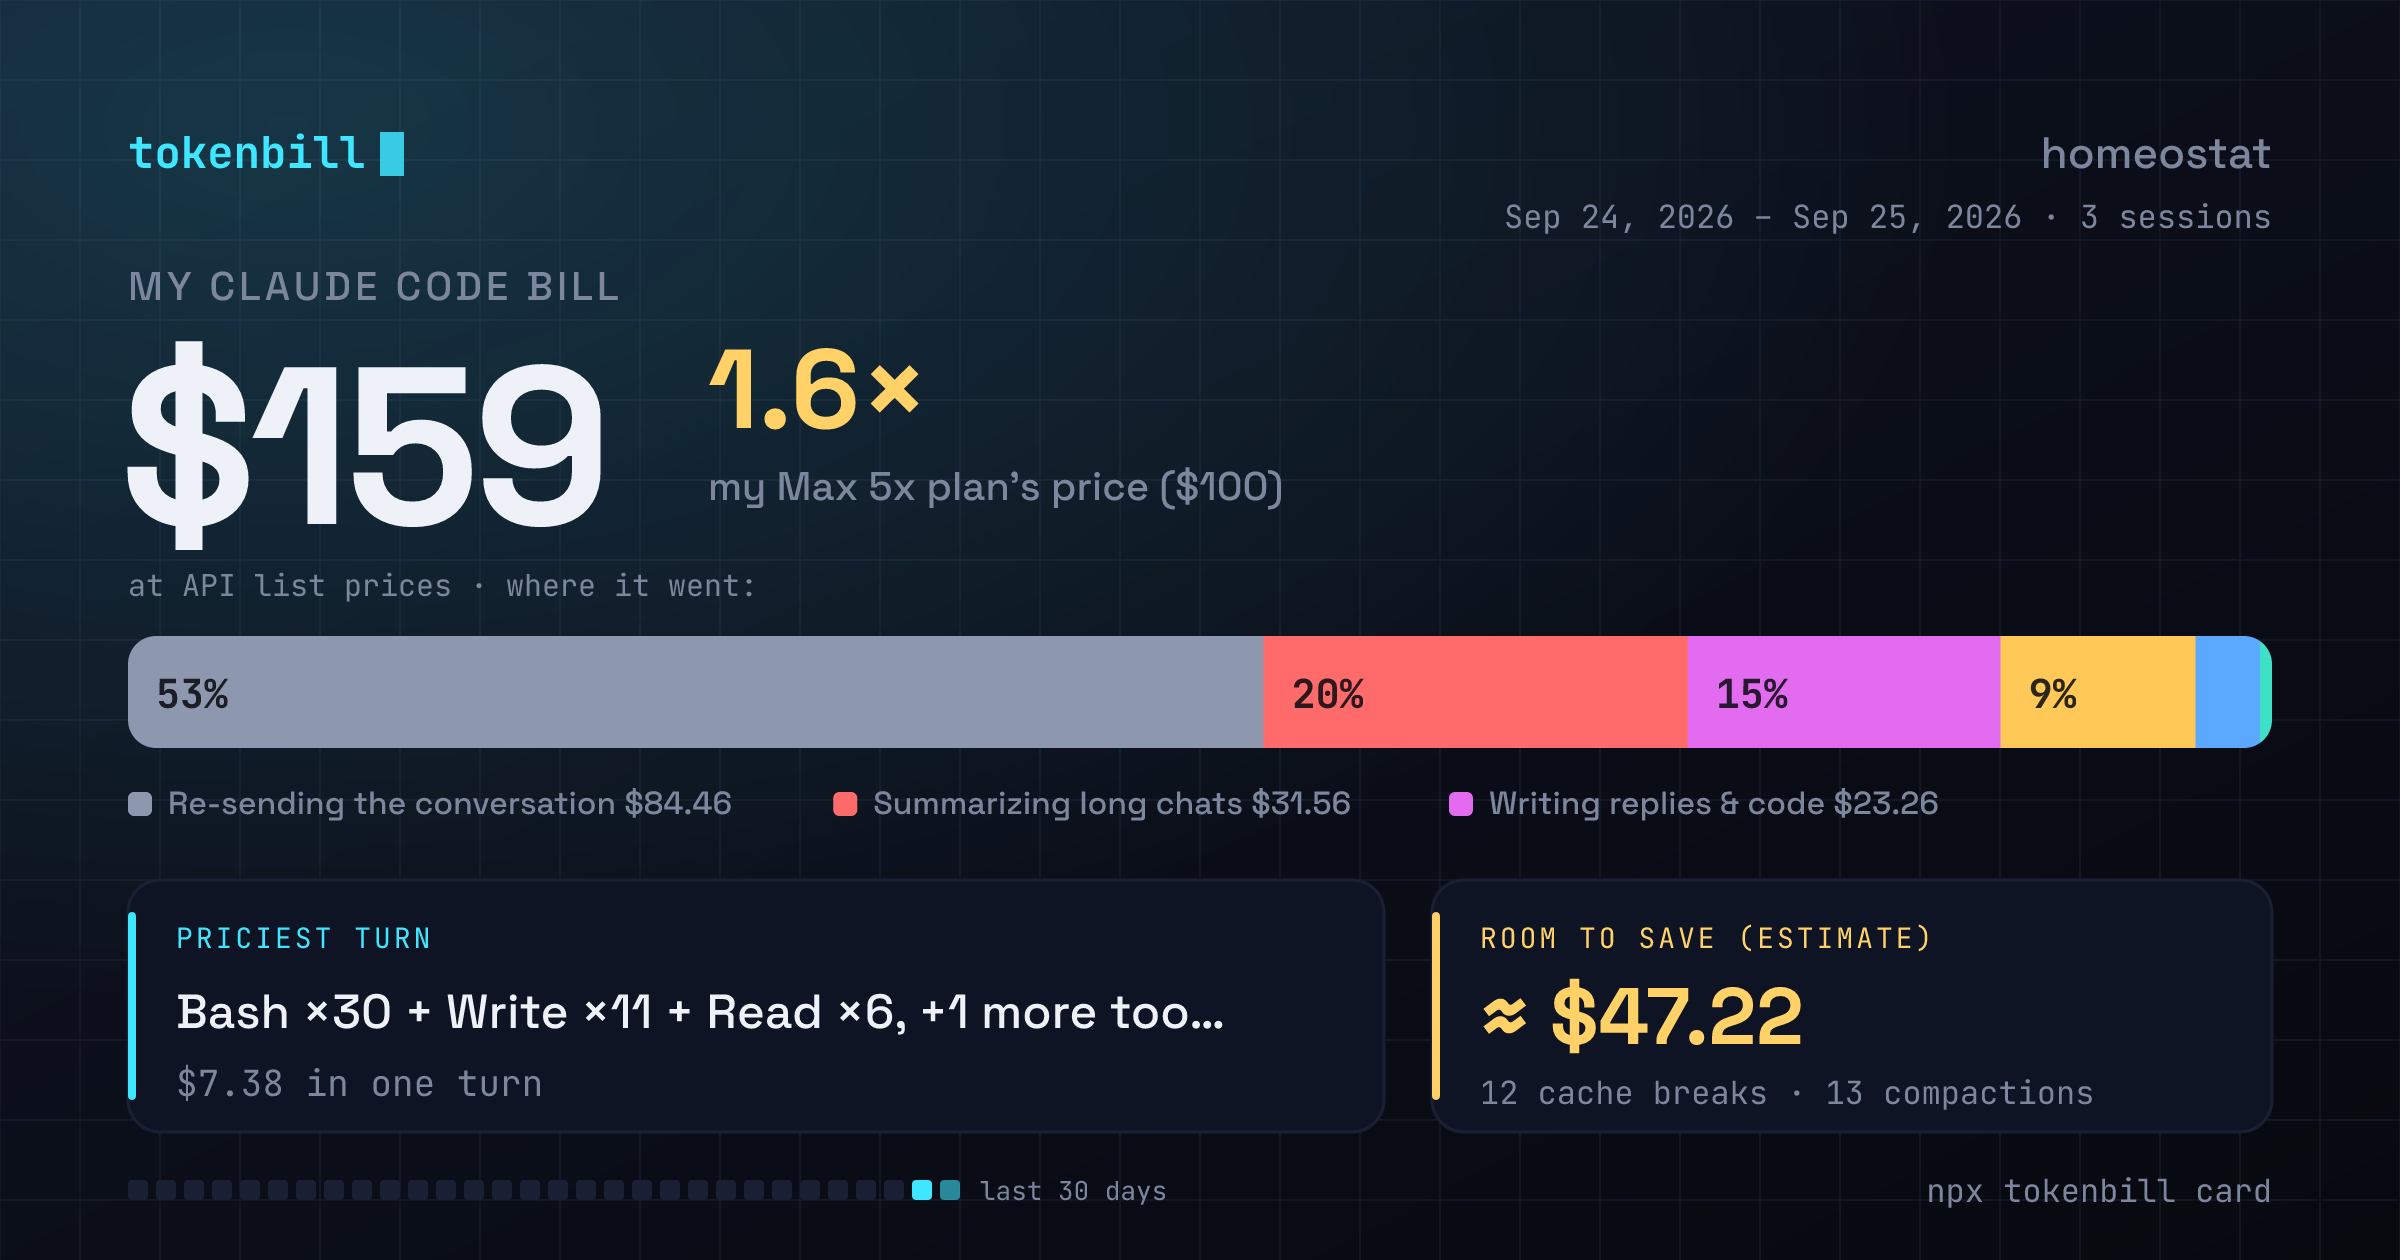
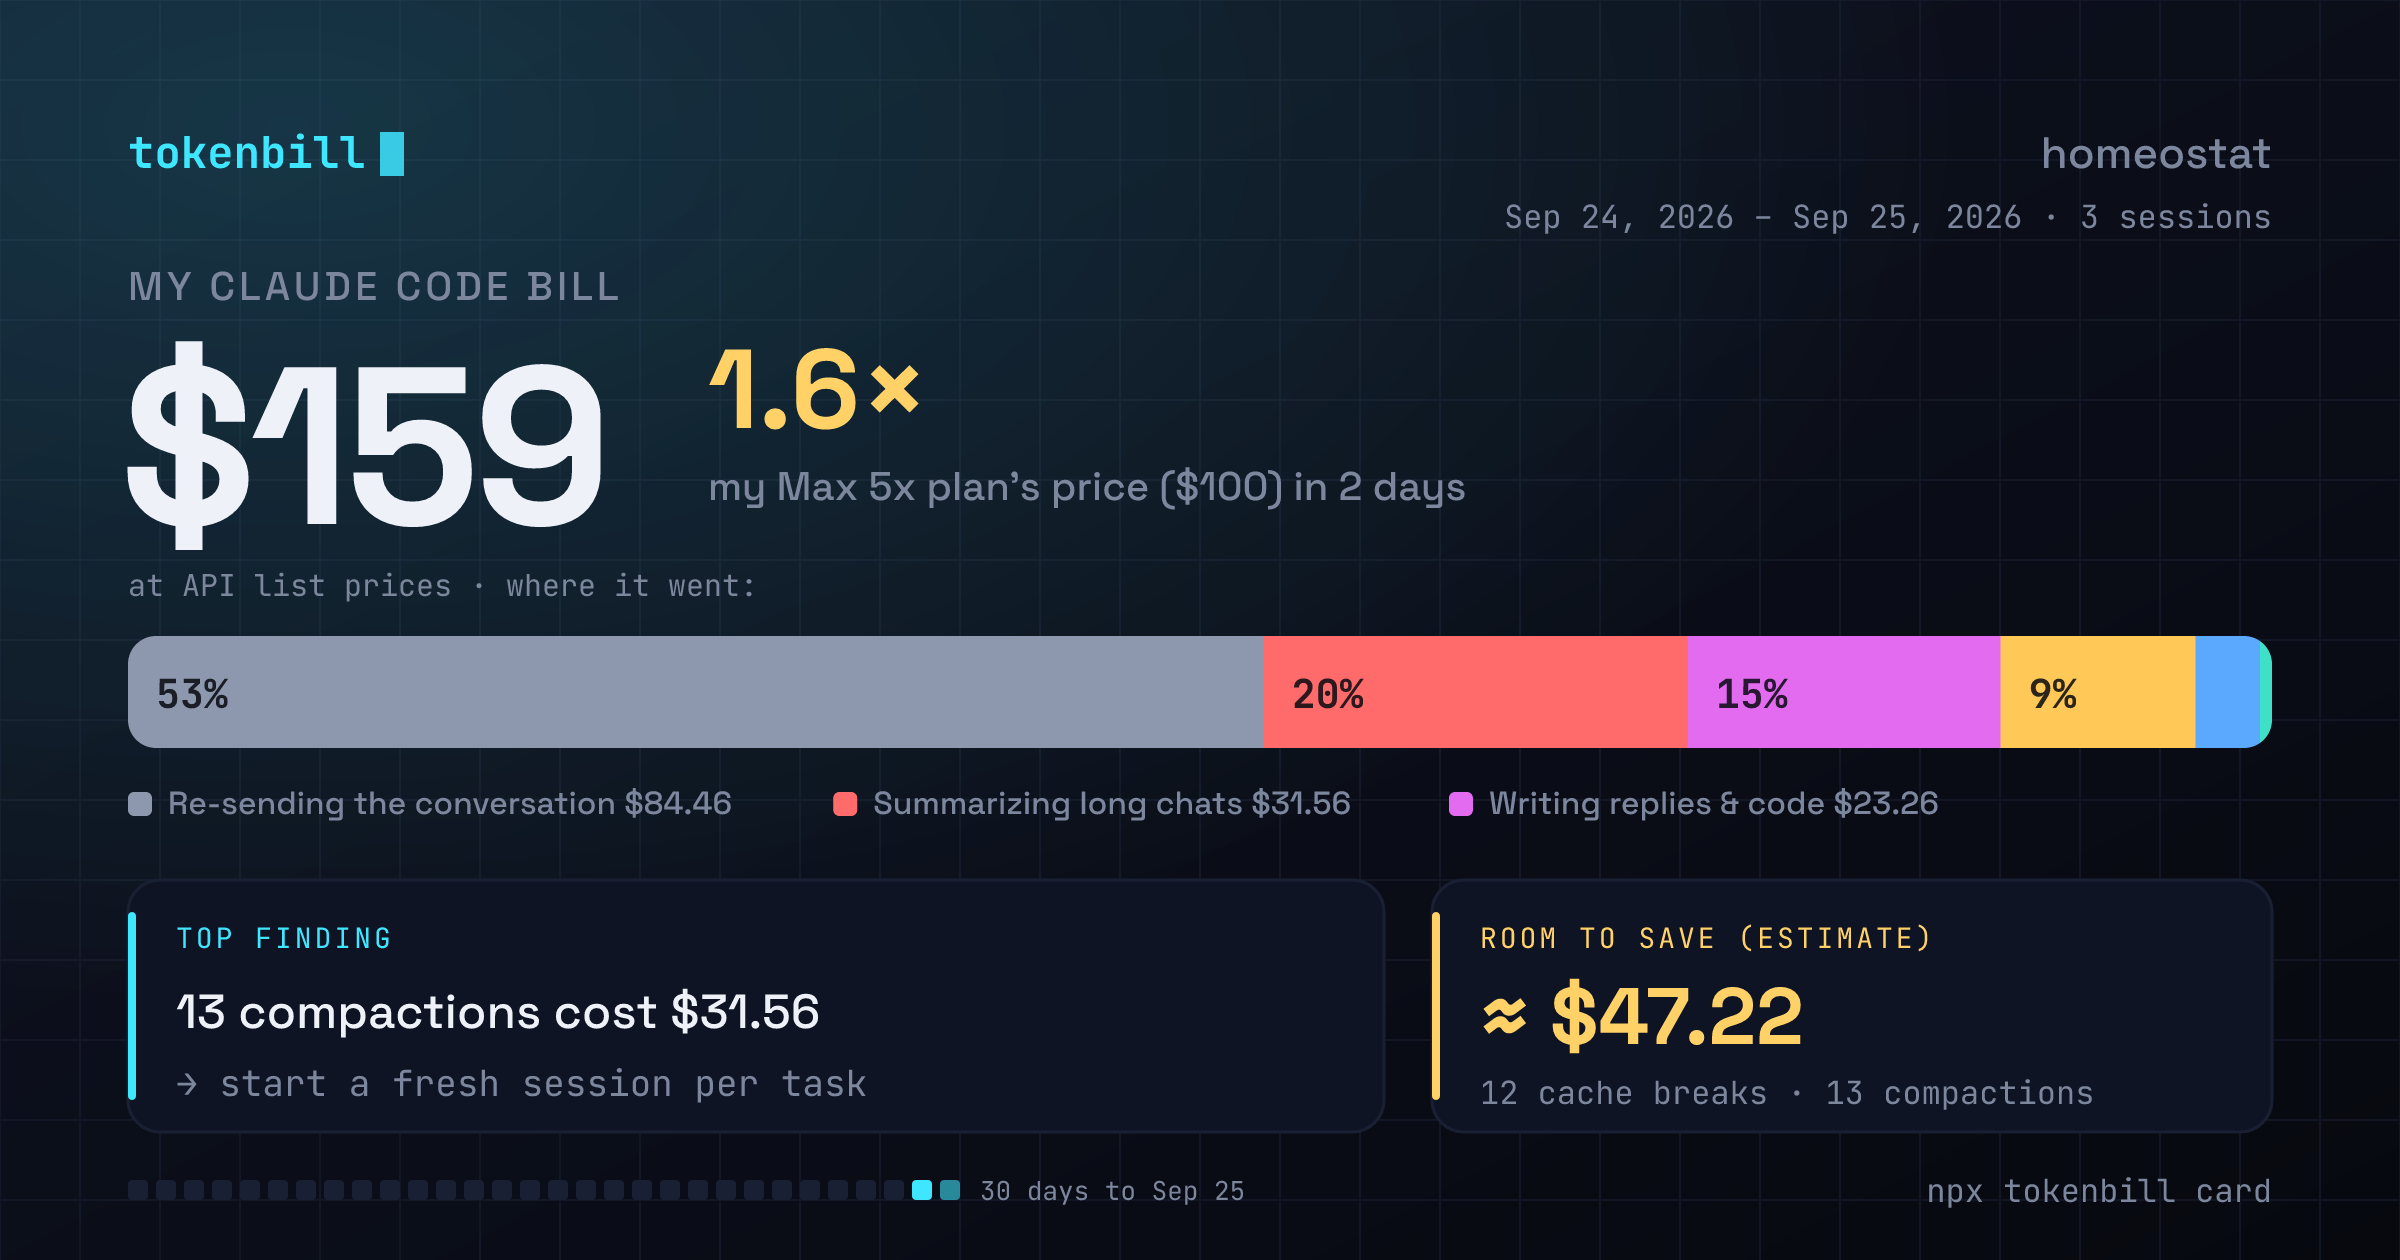
docs: refresh the share card and roadmap

Changed region(s): [[0.0625, 0.7119, 0.5, 0.8667], [0.5312, 0.3714, 0.625, 0.4024], [0.4062, 0.9286, 0.5, 0.9595]]

diff --git a/ROADMAP.md b/ROADMAP.md
@@ -40,30 +40,29 @@ share.
 - `--plan` compares spend against a Claude subscription's price.
 - A ready-to-paste caption for posting.
 
-## Phase 3: Release 0.7.0
-
-Phases 1 and 2 are on `main` but not on npm, while the README already
-documents `npx tokenbill card`. Nothing gets promoted until they ship.
+## Phase 3: Release 0.7.0 (done)
 
 - CI installs the packed tarball into an empty project on Windows, macOS and
-  Linux and renders a card from it with the bundled fonts.
-- Publish 0.7.0 to npm and move the Action tag in the README.
-- Repository topics and a social preview image, so links to the repo look
-  like the card.
+  Linux and renders a card from it; the three cards are byte identical, so
+  the bundled fonts are used everywhere.
+- 0.7.0 is on npm and the README points the Action at it.
+- Still open: repository topics and a social preview image, so links to the
+  repo look like the card.
 
-## Phase 4: A card worth posting
+## Phase 4: A card worth posting (implemented, ships in the next release)
 
 People share their own number, not a tool. The card has to say something a
 stranger understands at a glance, even with `--redact`.
 
-- With `--redact`, the priciest turn box shows the largest finding in one
-  sentence (for example "13 compactions cost $31") instead of a list of tool
-  calls cut off mid-word.
-- The plan comparison only uses days that have data, or says how many days it
-  covers, so "1.6× my plan" from two days of use is never read as a month.
-- The day strip matches the window the card actually covers.
-- The caption suggests `--plan` when it was not given, and always ends with
-  the command that made the card.
+- With `--redact`, the left panel shows the costliest finding and the change
+  that helps ("13 compactions cost $31.56 → start a fresh session per task")
+  instead of a list of tool calls.
+- Against a whole month's fee, the plan comparison says how many days of use
+  it covers ("1.6× my Max 5x plan's price ($100) in 2 days").
+- The day strip is labeled with the day it ends on.
+- Long labels are cut at a word boundary.
+- `tokenbill card` suggests `--plan` when it was not given; the caption
+  includes the costliest finding and ends with the command that made the card.
 
 ## Phase 5: Small launch
 

diff --git a/README.md b/README.md
@@ -89,14 +89,16 @@ reads). That figure is a heuristic estimate, not money proven lost: some
 compactions are unavoidable on long tasks. It also prints a ready-to-paste
 caption.
 The card at the top of this page was made with
-`tokenbill card --redact --plan max5` on a real project.
+`tokenbill card --redact --plan max5 --since 2026-09-24` on a real project.
 
 `--plan` takes `pro`, `max5`, `max20` or a monthly dollar amount. Without
 `--since` the card covers the last 30 days and compares against one month's
-fee; with `--since` the fee is prorated to that window.
+fee; with `--since` the fee is prorated to that window. When your sessions
+cover fewer days than the month, the card says so ("in 2 days").
 
-The card quotes your priciest prompt. Add `--redact` to show the tool
-activity instead. Rendering happens locally with bundled open-source fonts
+The card quotes your priciest prompt. Add `--redact` to hide it: the card
+then leads with its costliest finding and the one change that helps
+("13 compactions cost $31.56 → start a fresh session per task"). Rendering happens locally with bundled open-source fonts
 (Space Grotesk, JetBrains Mono); no browser is needed. If the PNG renderer
 has no prebuilt binary for your platform, the card is written as SVG.
 

diff --git a/CHANGELOG.md b/CHANGELOG.md
@@ -6,6 +6,17 @@ All notable changes to this project are documented here. The format follows
 
 ## [Unreleased]
 
+### Changed
+- With `--redact`, the share card leads with its costliest finding and the
+  change that helps, instead of a list of tool calls.
+- The card's plan comparison says how many days of use it covers when that
+  is less than the month.
+- The card's day strip is labeled with the day it ends on instead of
+  "last 30 days".
+- Long card labels are cut at a word boundary.
+- `tokenbill card` suggests `--plan` when it was not given, and the caption
+  includes the costliest finding.
+
 ## [0.7.0] - 2026-10-23
 
 ### Added

diff --git a/CONTRIBUTING.md b/CONTRIBUTING.md
@@ -141,7 +141,7 @@ The README card ([`assets/card.png`](assets/card.png)) is generated from a real
 project with prompts hidden. Regenerate it with `--redact`, always:
 
 ```
-npx tsx src/cli.ts card <project-dir> --redact --plan max5 --out assets/card.png
+npx tsx src/cli.ts card <project-dir> --redact --plan max5 --since <first-session-date> --out assets/card.png
 ```
 
 ## Test fixtures
